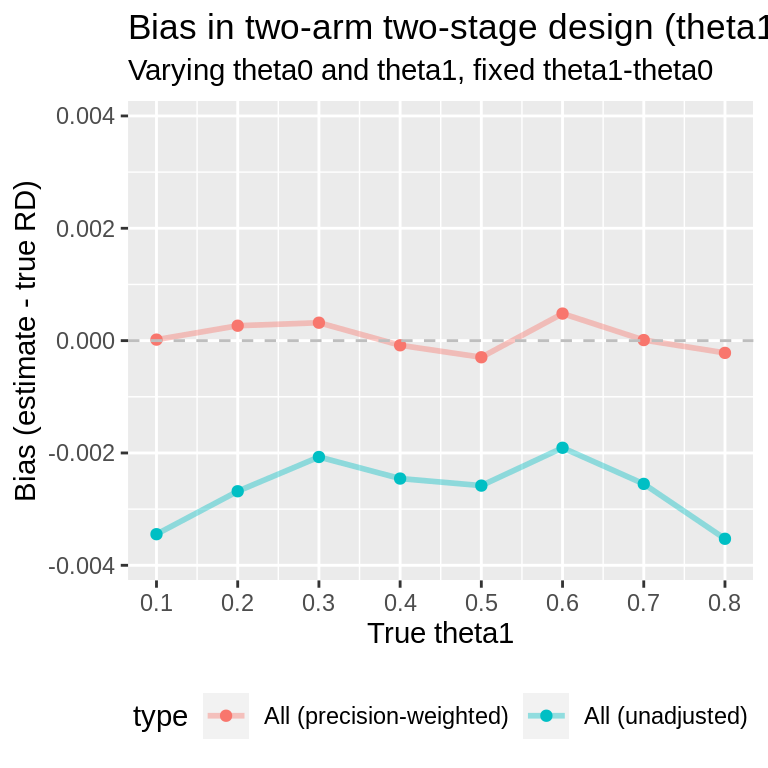
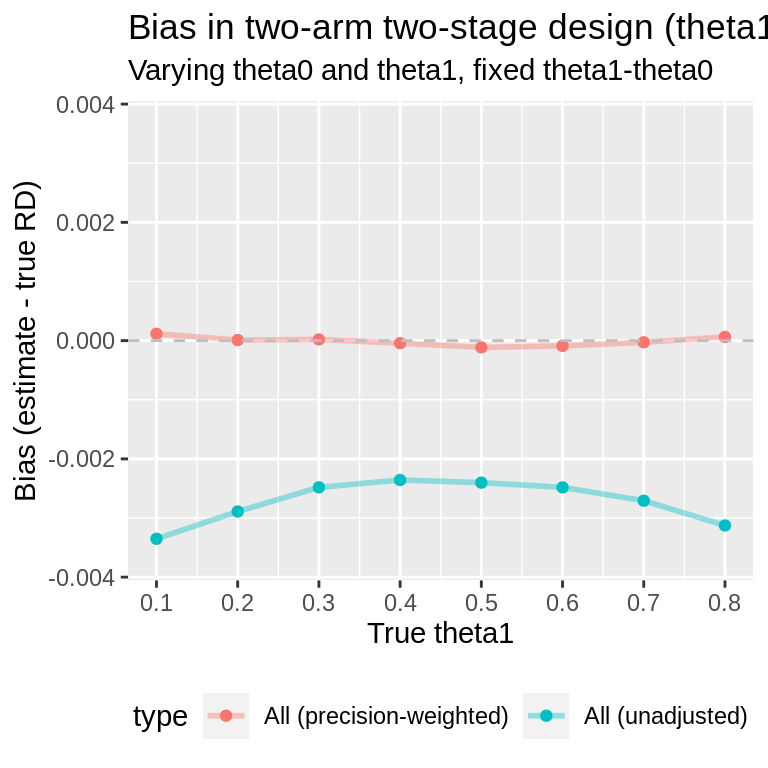
Built site for pwb: 0.0.0.9000@42de770

diff --git a/articles/two_arm_two_stage_full.html b/articles/two_arm_two_stage_full.html
@@ -87,7 +87,7 @@
 <span class="va">mc.error</span> <span class="op">&lt;-</span> <span class="fu"><a href="https://rdrr.io/r/base/numeric.html" class="external-link">numeric</a></span><span class="op">(</span><span class="fu"><a href="https://rdrr.io/r/base/length.html" class="external-link">length</a></span><span class="op">(</span><span class="va">theta1.vec</span><span class="op">)</span><span class="op">)</span>
 
 <span class="kw">for</span><span class="op">(</span><span class="va">i</span> <span class="kw">in</span> <span class="fl">1</span><span class="op">:</span><span class="fu"><a href="https://rdrr.io/r/base/length.html" class="external-link">length</a></span><span class="op">(</span><span class="va">theta1.vec</span><span class="op">)</span><span class="op">)</span><span class="op">{</span>
-  <span class="va">one.result</span> <span class="op">&lt;-</span> <span class="fu"><a href="../reference/pwb2stage.html">pwb2stage</a></span><span class="op">(</span>N<span class="op">=</span><span class="fl">2428</span>, theta0<span class="op">=</span><span class="va">theta1.vec</span><span class="op">[</span><span class="va">i</span><span class="op">]</span><span class="op">+</span><span class="fl">0.05</span>, theta1<span class="op">=</span><span class="va">theta1.vec</span><span class="op">[</span><span class="va">i</span><span class="op">]</span>, nsims<span class="op">=</span><span class="fl">1e4</span><span class="op">)</span>
+  <span class="va">one.result</span> <span class="op">&lt;-</span> <span class="fu"><a href="../reference/pwb2stage.html">pwb2stage</a></span><span class="op">(</span>N<span class="op">=</span><span class="fl">2428</span>, theta0<span class="op">=</span><span class="va">theta1.vec</span><span class="op">[</span><span class="va">i</span><span class="op">]</span><span class="op">+</span><span class="fl">0.05</span>, theta1<span class="op">=</span><span class="va">theta1.vec</span><span class="op">[</span><span class="va">i</span><span class="op">]</span>, nsims<span class="op">=</span><span class="fl">1e5</span><span class="op">)</span>
   <span class="va">iw.results</span><span class="op">[[</span><span class="va">i</span><span class="op">]</span><span class="op">]</span> <span class="op">&lt;-</span> <span class="va">one.result</span><span class="op">$</span><span class="va">ests</span>
   <span class="va">mc.error</span><span class="op">[</span><span class="va">i</span><span class="op">]</span> <span class="op">&lt;-</span> <span class="va">one.result</span><span class="op">$</span><span class="va">mc.error.bias</span>
 <span class="op">}</span>
@@ -99,7 +99,7 @@
 <span class="va">iw.results2</span> <span class="op">&lt;-</span> <span class="fu"><a href="https://rdrr.io/r/base/vector.html" class="external-link">vector</a></span><span class="op">(</span><span class="st">"list"</span>, <span class="fu"><a href="https://rdrr.io/r/base/length.html" class="external-link">length</a></span><span class="op">(</span><span class="va">theta1.vec</span><span class="op">)</span><span class="op">)</span>
 <span class="va">mc.error2</span> <span class="op">&lt;-</span> <span class="fu"><a href="https://rdrr.io/r/base/numeric.html" class="external-link">numeric</a></span><span class="op">(</span><span class="fu"><a href="https://rdrr.io/r/base/length.html" class="external-link">length</a></span><span class="op">(</span><span class="va">theta1.vec</span><span class="op">)</span><span class="op">)</span>
 <span class="kw">for</span><span class="op">(</span><span class="va">i</span> <span class="kw">in</span> <span class="fl">1</span><span class="op">:</span><span class="fu"><a href="https://rdrr.io/r/base/length.html" class="external-link">length</a></span><span class="op">(</span><span class="va">theta1.vec</span><span class="op">)</span><span class="op">)</span><span class="op">{</span>
-  <span class="va">one.result</span> <span class="op">&lt;-</span> <span class="fu"><a href="../reference/pwb2stage.html">pwb2stage</a></span><span class="op">(</span>theta0<span class="op">=</span><span class="fl">0.3</span>, theta1<span class="op">=</span><span class="va">theta1.vec</span><span class="op">[</span><span class="va">i</span><span class="op">]</span>, nsim<span class="op">=</span><span class="fl">1e4</span><span class="op">)</span>
+  <span class="va">one.result</span> <span class="op">&lt;-</span> <span class="fu"><a href="../reference/pwb2stage.html">pwb2stage</a></span><span class="op">(</span>theta0<span class="op">=</span><span class="fl">0.3</span>, theta1<span class="op">=</span><span class="va">theta1.vec</span><span class="op">[</span><span class="va">i</span><span class="op">]</span>, nsim<span class="op">=</span><span class="fl">1e5</span><span class="op">)</span>
   <span class="va">iw.results2</span><span class="op">[[</span><span class="va">i</span><span class="op">]</span><span class="op">]</span> <span class="op">&lt;-</span> <span class="va">one.result</span><span class="op">$</span><span class="va">ests</span>
   <span class="va">mc.error2</span><span class="op">[</span><span class="va">i</span><span class="op">]</span> <span class="op">&lt;-</span> <span class="va">one.result</span><span class="op">$</span><span class="va">mc.error.bias</span>
 <span class="op">}</span>
@@ -116,7 +116,7 @@
   
 <span class="va">ma2stage.results</span> <span class="op">&lt;-</span> <span class="fu"><a href="https://rdrr.io/r/base/do.call.html" class="external-link">do.call</a></span><span class="op">(</span><span class="va">rbind</span>, <span class="va">ma2stage.results</span><span class="op">)</span>
 <span class="va">ma2stage.results</span><span class="op">$</span><span class="va">theta01</span> <span class="op">&lt;-</span> <span class="st">"theta1-theta0=0.05"</span></code></pre></div>
-<p><img src="figures/MA%202-stage%20plot-1.png" width="384"></p>
+<p><img src="figures/MA_2-stage_plot-1.png" width="384"></p>
 <div class="sourceCode" id="cb4"><pre class="downlit sourceCode r">
 <code class="sourceCode R"><span class="va">ma2stage.results2</span> <span class="op">&lt;-</span> <span class="fu"><a href="https://rdrr.io/r/base/vector.html" class="external-link">vector</a></span><span class="op">(</span><span class="st">"list"</span>, <span class="fu"><a href="https://rdrr.io/r/base/length.html" class="external-link">length</a></span><span class="op">(</span><span class="va">theta1.vec</span><span class="op">)</span><span class="op">)</span>
 

diff --git a/articles/GS.html b/articles/GS.html
@@ -103,10 +103,10 @@
                      nsims<span class="op">=</span><span class="va">nsims</span><span class="op">)</span>
   <span class="va">single.GS</span><span class="op">$</span><span class="va">ests</span><span class="op">[</span>, <span class="fl">1</span><span class="op">:</span><span class="fl">5</span><span class="op">]</span>
 <span class="co">#&gt;                          nsims    bias mean.SE emp.SE theta</span>
-<span class="co">#&gt; Stopped early            39177 -0.0454  0.0455 0.0274   0.5</span>
-<span class="co">#&gt; Complete                 60823  0.0248  0.0421 0.0301   0.5</span>
-<span class="co">#&gt; All                     100000 -0.0027  0.0434 0.0450   0.5</span>
-<span class="co">#&gt; All (precision-weghted) 100000  0.0000  0.0433     NA   0.5</span>
+<span class="co">#&gt; Stopped early            39435 -0.0452  0.0455 0.0276   0.5</span>
+<span class="co">#&gt; Complete                 60565  0.0244  0.0421 0.0298   0.5</span>
+<span class="co">#&gt; All                     100000 -0.0031  0.0435 0.0447   0.5</span>
+<span class="co">#&gt; All (precision-weghted) 100000 -0.0004  0.0433     NA   0.5</span>
   <span class="fu"><a href="https://rdrr.io/r/base/Round.html" class="external-link">round</a></span><span class="op">(</span><span class="va">single.GS</span><span class="op">$</span><span class="va">mc.error</span>, <span class="fl">5</span><span class="op">)</span>
 <span class="co">#&gt; [1] 0.00014 0.00010</span></code></pre></div>
 <p>How does bias compare when the true response probability is varied? Find results for a vector of true response probabilities:</p>
